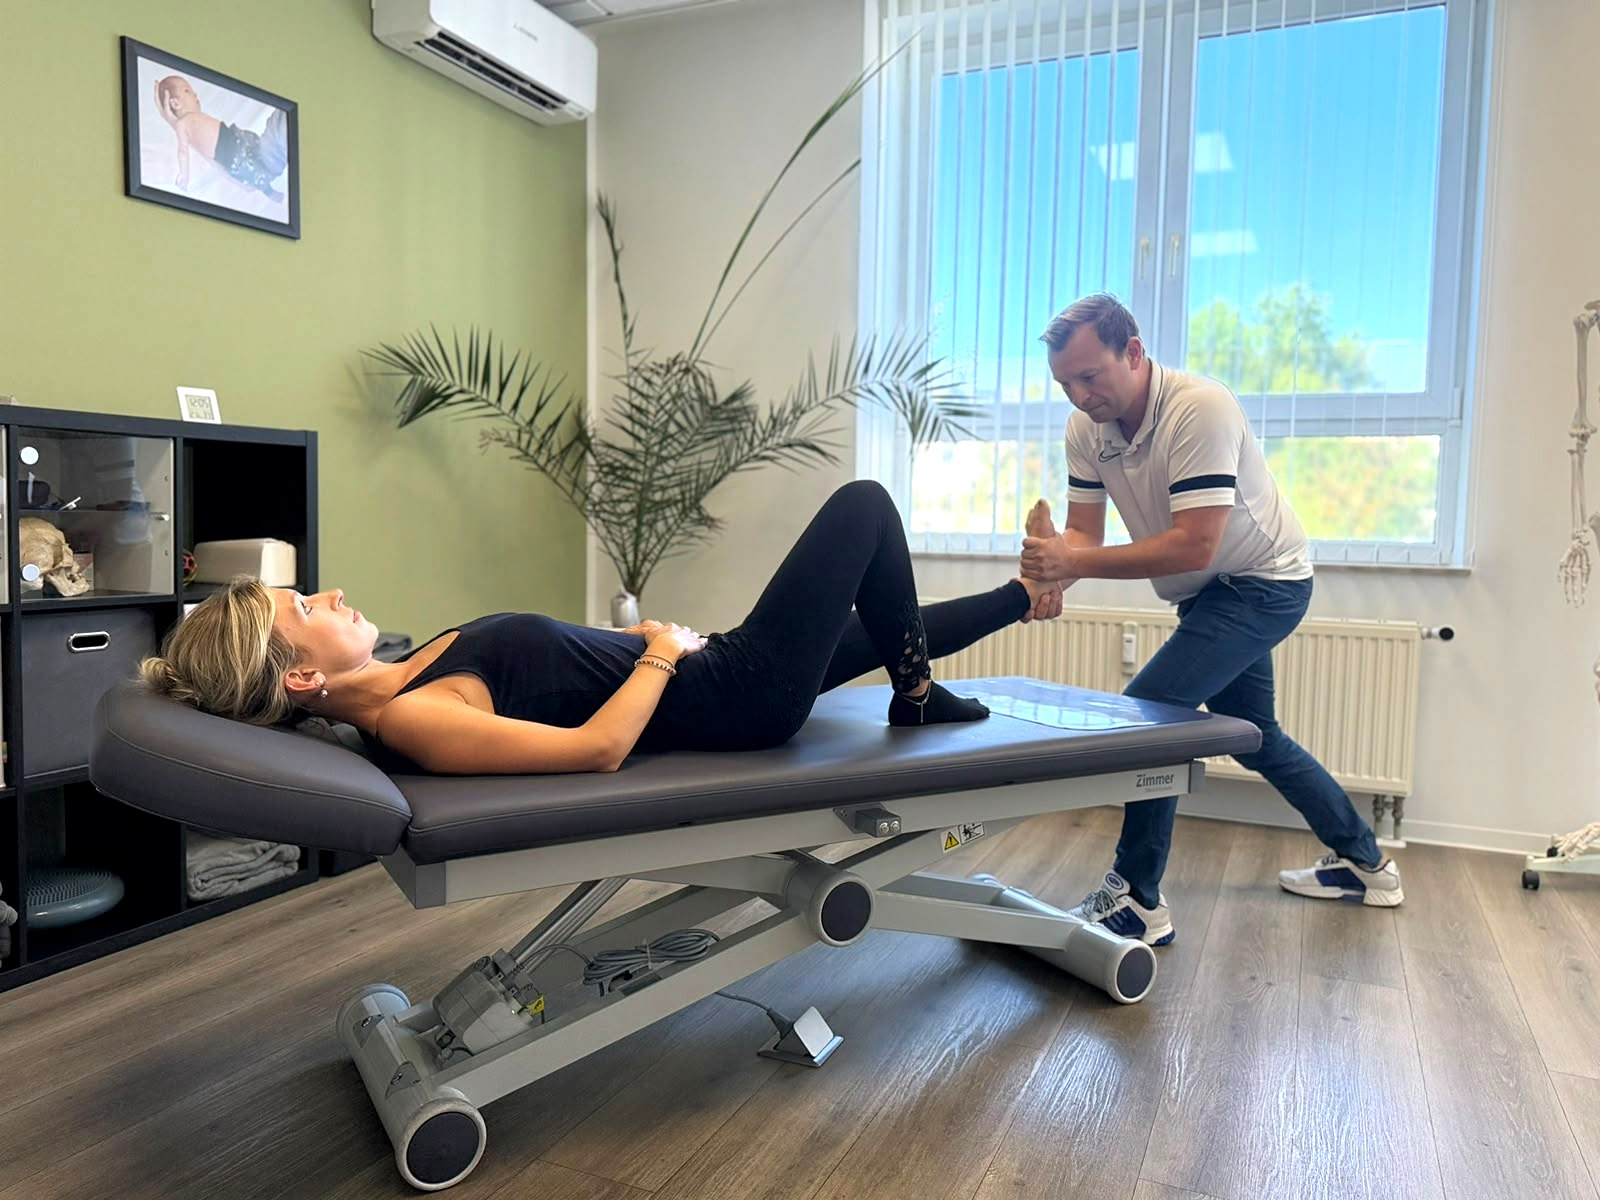
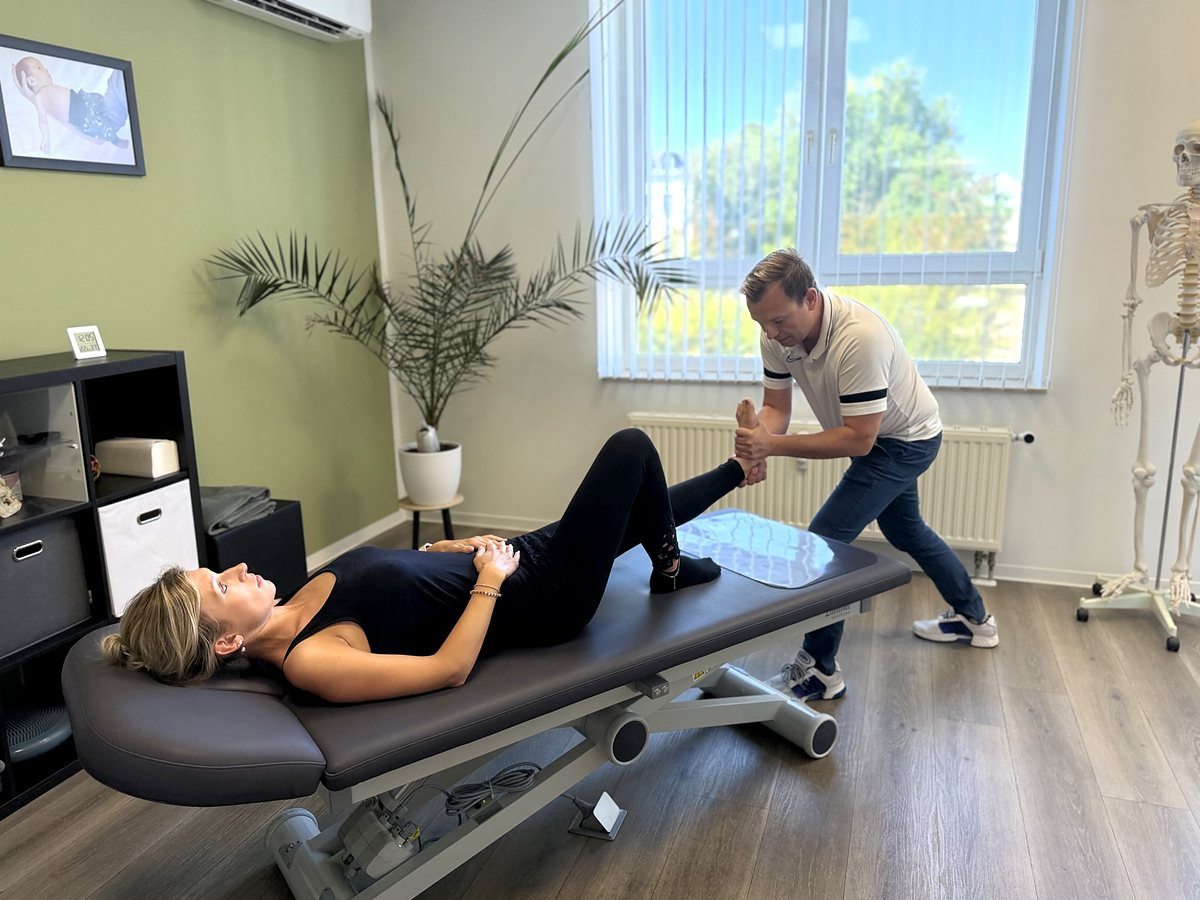
osteopathie-limbach: Kamera-Originale + Labels ohne KI-Kapsel
Bilder aus den HEIC-Originalen (4032x3024 statt WhatsApp 1600-2048):
- Hero 2560px (IMG_9884), breites Band 2480px (IMG_9866),
  Lead 1200px (IMG_9886), Arbeitsweise 1200px (IMG_9879)
- damit erstmals volle Deckung auf 2x-Displays; vorher 56-64%
- Ausschnitte kontrolliert vorgeschnitten (21:9 bzw. 2.4:1) statt dem
  Browser per object-fit zu ueberlassen
- trotz deutlich groesserer Masse KLEINERE Dateien (Hero 198 statt 229 KB):
  die Originale sind nicht doppelt komprimiert wie die WhatsApp-Fassungen
- vier verschiedene Techniken/Perspektiven statt zweimal aehnlicher Motive

Design:
- .pill war eine gefuellte Kapsel mit Radius 999px - das typische
  Template-Merkmal. Jetzt redaktionelles Label: 26px-Haarlinie plus
  Kapitaelchen, ohne Hintergrund/Rahmen; zentrierte Abschnitte bekommen
  die Linie beidseitig
- .hero-badge analog entkapselt (vorher Glasoptik mit Rahmen)
- beide Aenderungen auf Startseite UND Landingpage, damit es zusammenpasst

diff --git a/osteopathie-limbach/chiropraktik.html b/osteopathie-limbach/chiropraktik.html
@@ -33,7 +33,9 @@ section{position:relative}
 h1,h2,h3,h4{font-family:var(--head);line-height:1.15;letter-spacing:-.01em;font-weight:700;color:var(--ink)}
 p{color:var(--soft)}
 
-.pill{display:inline-flex;align-items:center;gap:8px;background:rgba(153,159,121,.16);color:var(--sage-dk);border-radius:999px;padding:7px 16px;font-size:.78rem;font-weight:600;letter-spacing:.04em;text-transform:uppercase;width:fit-content}
+.pill{display:inline-flex;align-items:center;gap:12px;color:var(--sage-dk);font-size:.8rem;font-weight:600;letter-spacing:.1em;text-transform:uppercase;width:fit-content}
+.pill::before{content:"";width:26px;height:1px;background:var(--sage);flex:none}
+.sec-head .pill::after{content:"";width:26px;height:1px;background:var(--sage);flex:none}
 .btn{display:inline-flex;align-items:center;justify-content:center;gap:10px;font-family:var(--body);font-weight:600;font-size:.96rem;padding:15px 26px;border-radius:12px;border:1px solid transparent;cursor:pointer;transition:.25s;white-space:nowrap}
 .btn-primary{background:var(--sage);color:#fff;box-shadow:0 14px 28px -14px rgba(124,132,96,.85)}
 .btn-primary:hover{background:var(--sage-2);transform:translateY(-2px)}
@@ -69,7 +71,8 @@ p{color:var(--soft)}
 .hero-bg img{position:absolute;inset:0;width:100%;height:100%;object-fit:cover;object-position:center 30%}
 .hero-scrim{position:absolute;inset:0;z-index:1;background:linear-gradient(90deg,rgba(38,44,34,.74) 0%,rgba(38,44,34,.38) 52%,rgba(38,44,34,.12) 100%),linear-gradient(180deg,rgba(38,44,34,.15) 0%,rgba(38,44,34,.1) 45%,rgba(38,44,34,.62) 100%)}
 .hero-inner{position:relative;z-index:2;padding:60px clamp(24px,5vw,64px) 48px;max-width:900px}
-.hero-badge{display:inline-flex;align-items:center;gap:8px;background:rgba(255,255,255,.16);backdrop-filter:blur(10px);-webkit-backdrop-filter:blur(10px);border:1px solid rgba(255,255,255,.3);color:#fff;border-radius:999px;padding:8px 18px;font-size:.82rem;font-weight:600;margin-bottom:20px}
+.hero-badge{display:inline-flex;align-items:center;gap:12px;color:rgba(255,255,255,.9);font-size:.85rem;font-weight:500;letter-spacing:.03em;margin-bottom:20px;text-shadow:0 1px 14px rgba(0,0,0,.5)}
+.hero-badge::before{content:"";width:26px;height:1px;background:rgba(255,255,255,.65);flex:none}
 .hero h1{color:#fff;font-size:clamp(2rem,4.6vw,3.4rem);text-shadow:0 2px 30px rgba(0,0,0,.4);margin-bottom:14px;font-weight:600}
 .hero-sub{color:rgba(255,255,255,.94);font-size:clamp(1rem,1.5vw,1.15rem);max-width:640px;margin-bottom:28px}
 .hero-ctas{display:flex;gap:14px;flex-wrap:wrap}

diff --git a/osteopathie-limbach/index.html b/osteopathie-limbach/index.html
@@ -33,7 +33,9 @@ section{position:relative}
 h1,h2,h3,h4{font-family:var(--head);line-height:1.12;letter-spacing:-.01em;font-weight:700;color:var(--ink)}
 
 /* ---------- buttons / pills ---------- */
-.pill{display:inline-flex;align-items:center;gap:8px;background:rgba(153,159,121,.16);color:var(--sage-dk);border-radius:999px;padding:7px 16px;font-size:.78rem;font-weight:600;letter-spacing:.04em;text-transform:uppercase;width:fit-content}
+.pill{display:inline-flex;align-items:center;gap:12px;color:var(--sage-dk);font-size:.8rem;font-weight:600;letter-spacing:.1em;text-transform:uppercase;width:fit-content}
+.pill::before{content:"";width:26px;height:1px;background:var(--sage);flex:none}
+.sec-head .pill::after{content:"";width:26px;height:1px;background:var(--sage);flex:none}
 .btn{display:inline-flex;align-items:center;justify-content:center;gap:10px;font-family:var(--body);font-weight:600;font-size:.96rem;padding:15px 26px;border-radius:12px;border:1px solid transparent;cursor:pointer;transition:.25s;white-space:nowrap}
 .btn svg{flex:none}
 .btn-primary{background:var(--sage);color:#fff;box-shadow:0 14px 28px -14px rgba(124,132,96,.85)}
@@ -76,7 +78,8 @@ h1,h2,h3,h4{font-family:var(--head);line-height:1.12;letter-spacing:-.01em;font-
 .burger svg{margin:auto}
 
 .hero-center{flex:1;display:flex;flex-direction:column;align-items:center;justify-content:center;text-align:center;padding:60px 22px 72px;max-width:880px;margin:0 auto}
-.hero-badge{display:inline-flex;align-items:center;gap:8px;background:rgba(255,255,255,.16);backdrop-filter:blur(10px);-webkit-backdrop-filter:blur(10px);border:1px solid rgba(255,255,255,.3);color:#fff;border-radius:999px;padding:8px 18px;font-size:.82rem;font-weight:600;margin-bottom:24px}
+.hero-badge{display:inline-flex;align-items:center;gap:12px;color:rgba(255,255,255,.9);font-size:.85rem;font-weight:500;letter-spacing:.03em;margin-bottom:24px;text-shadow:0 1px 14px rgba(0,0,0,.5)}
+.hero-badge::before{content:"";width:26px;height:1px;background:rgba(255,255,255,.65);flex:none}
 .hero h1{color:#fff;font-size:clamp(2.2rem,5.4vw,4rem);text-shadow:0 2px 30px rgba(0,0,0,.4);margin-bottom:20px;font-weight:600}
 .hero-sub{color:rgba(255,255,255,.92);font-size:clamp(1rem,1.6vw,1.18rem);max-width:640px;margin-bottom:34px}
 .hero-ctas{display:flex;gap:14px;flex-wrap:wrap;justify-content:center}
